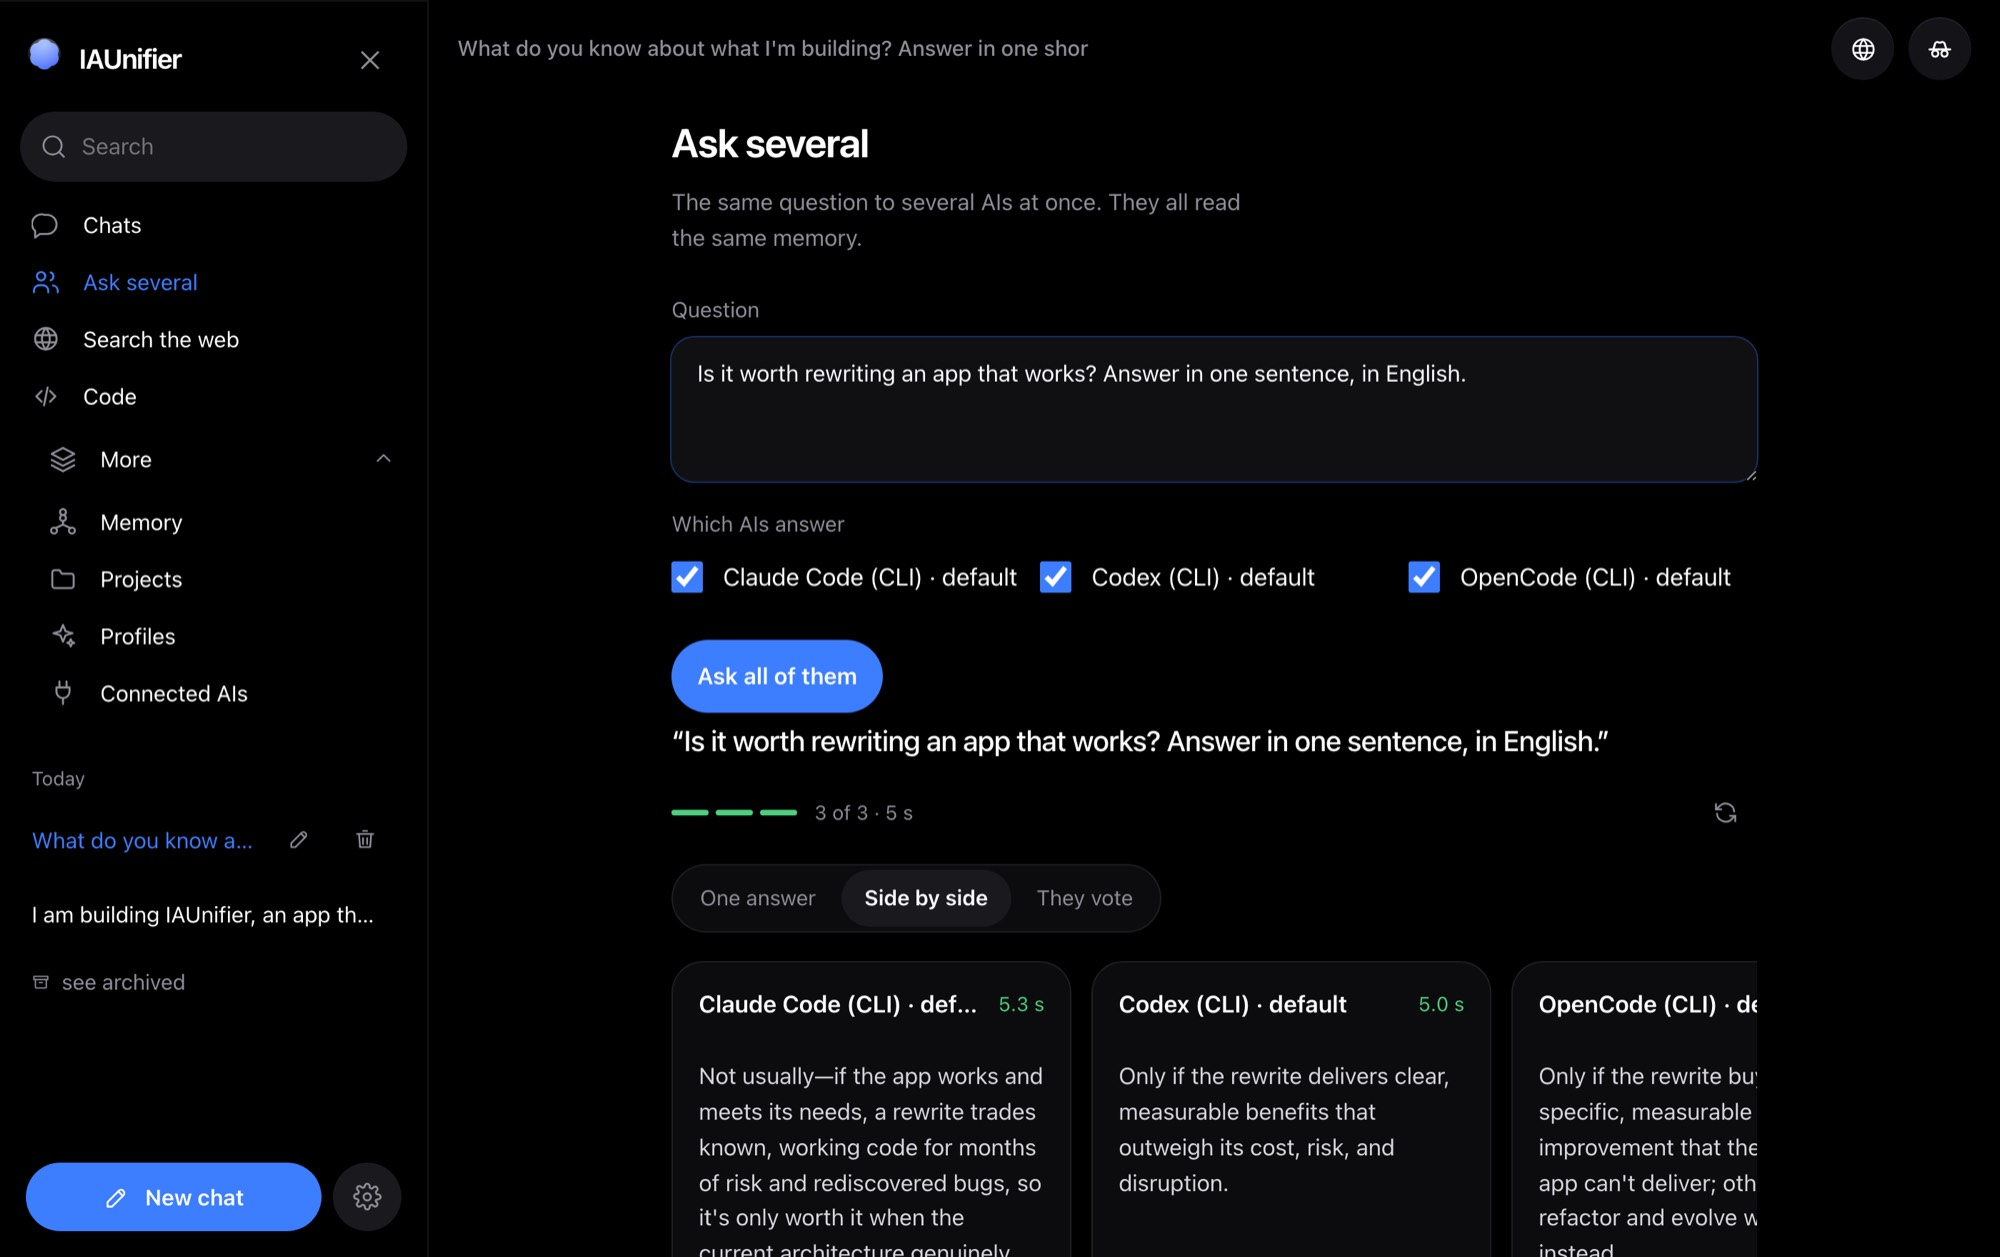
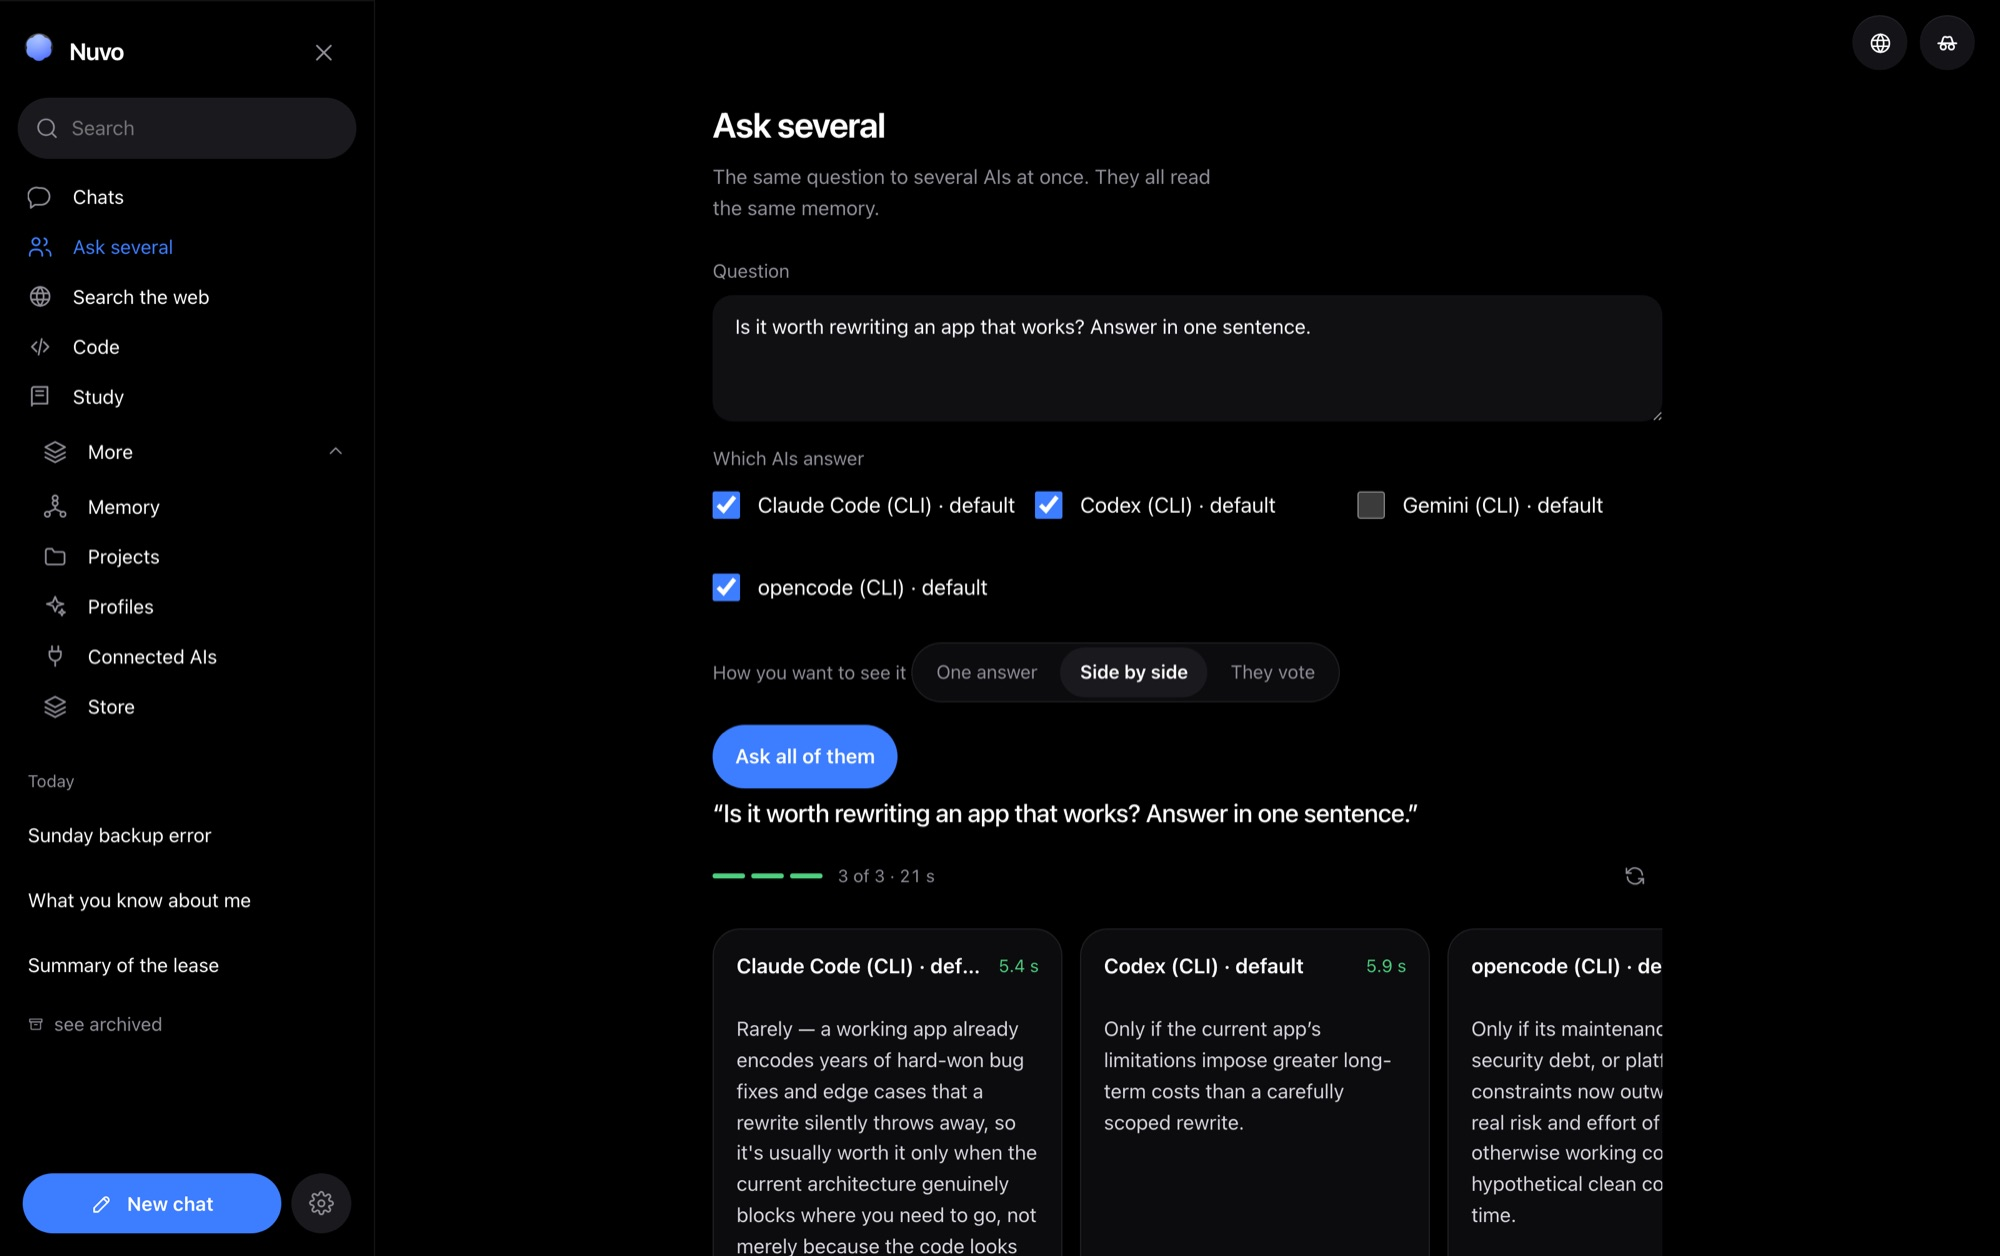
Fix the Gemini CLI invocation, and automate the AI-dependent screenshots
Gemini's `-p` wants the prompt as an argument; the app was passing `-p` alone and
piping the prompt to stdin, so the CLI answered "Not enough arguments following:
p" and printed its own help — which reached the screen as "this AI did not
answer" with the help text inside it. Providers already registered with the old
argument are repaired on startup, and only that exact shape, so anyone who edited
the command by hand is left alone.

The four landing screenshots that show real AI work could not be regenerated
because the script had no way to make a session happen first. It does now: each
screen can name a routine that runs before the shot. `tela-varias` runs the
council in the page itself, since the council keeps no result to reopen, and
picks three AIs that answer — a shop window showing a failure advertises the
defect, not the feature.

`CAPTURAS_IDIOMAS=pt-BR` runs one language while a routine is being tuned,
instead of spending three real AI sessions per attempt.

tela-varias regenerated in all three languages, and now says Nuvo.

diff --git a/build/capturas.py b/build/capturas.py
@@ -45,6 +45,12 @@ LARGURA_FINAL_CELULAR = 1170
 
 IDIOMAS = {'pt-BR': '', 'en': '-en', 'es': '-es'}
 
+# `CAPTURAS_IDIOMAS=pt-BR` roda um idioma só. Serve pra acertar um roteiro sem
+# gastar três sessões de IA de verdade a cada tentativa.
+_so = os.environ.get('CAPTURAS_IDIOMAS')
+if _so:
+    IDIOMAS = {k: v for k, v in IDIOMAS.items() if k in _so.split(',')}
+
 # Cada tela: como chegar nela e o que esperar antes de bater a foto.
 TELAS = {
     'tela-conversa': {'view': None, 'espera': '.vazio h1'},
@@ -53,6 +59,13 @@ TELAS = {
     # — anuncia um erro, não o produto. E as descrições dos modelos ainda saem em
     # português na tela em inglês, que é defeito a corrigir antes de virar foto.
     # 'tela-maquina': {'view': 'providers', 'espera': '#view-providers .panel-inner'},
+
+    # As quatro que precisam de resposta de IA de verdade. `roteiro` é o nome da
+    # função que faz a sessão acontecer antes da foto: elas mostram trabalho que
+    # só existe depois de uma IA responder, e escrever o conteúdo à mão seria
+    # anunciar uma coisa que o app não fez.
+    'tela-varias': {'view': 'council', 'espera': '#c-out .council-col:not(.run)', 'roteiro': 'conselho'},
+    'tela-cli': {'view': None, 'espera': '.msg.assistant .body', 'roteiro': 'memoria'},
 }
 
 # Títulos de conversa que aparecem na barra lateral. São de mentira, e é de
@@ -62,6 +75,73 @@ CONVERSAS = {
     'en': ['What you know about me', 'Summary of the lease', 'Sunday backup error'],
     'es': ['Qué sabes de mí', 'Resumen del contrato de alquiler', 'Error en la copia del domingo'],
 }
+
+
+# A pergunta de cada roteiro, no idioma da vez. Curta de propósito: cada uma
+# custa uma sessão de IA de verdade, e a foto mostra o formato, não o ensaio.
+PERGUNTAS = {
+    'conselho': {
+        'pt-BR': 'Vale a pena reescrever um app que funciona? Responda em uma frase.',
+        'en': 'Is it worth rewriting an app that works? Answer in one sentence.',
+        'es': '¿Vale la pena reescribir una app que funciona? Responde en una frase.',
+    },
+    'memoria': {
+        'pt-BR': ('Meu domínio é nspx.dev e eu escrevo em português do Brasil.',
+                  'Qual é o meu domínio? Responda em uma frase.'),
+        'en': ('My domain is nspx.dev and I write in English.',
+               'What is my domain? Answer in one sentence.'),
+        'es': ('Mi dominio es nspx.dev y escribo en español.',
+               '¿Cuál es mi dominio? Responde en una frase.'),
+    },
+}
+
+
+def cli_disponivel(nome):
+    """A ref 'providerId:modelId' de um CLI ligado, ou None."""
+    for p in api('/state')['providers']:
+        if p['kind'] == 'cli' and p['enabled'] and p.get('models'):
+            if nome is None or nome.lower() in p['name'].lower():
+                return f"{p['id']}:{p['models'][0]['model_id']}"
+    return None
+
+
+def falar(chat_id, texto, prazo=240):
+    """Manda uma mensagem e espera o turno fechar. Sem isto a foto pega o vazio."""
+    pedido = urllib.request.Request(
+        f'http://127.0.0.1:{PORTA}/api/chats/{chat_id}/stream',
+        data=json.dumps({'content': texto}).encode(),
+        headers={'content-type': 'application/json'},
+        method='POST',
+    )
+    with urllib.request.urlopen(pedido, timeout=prazo) as r:
+        for linha in r:  # consumir o SSE até o fim é o que espera o turno
+            pass
+
+
+def roteiro_conselho(idioma):
+    """O conselho não guarda resultado: quem pergunta é a própria página."""
+    return {'pergunta': PERGUNTAS['conselho'][idioma]}
+
+
+def roteiro_memoria(idioma):
+    """O que dá nome ao produto: contar pra uma IA e outra saber."""
+    conta, pergunta = PERGUNTAS['memoria'][idioma]
+    primeira = cli_disponivel('claude') or cli_disponivel(None)
+    segunda = cli_disponivel('codex') or cli_disponivel(None)
+    if not primeira:
+        raise SystemExit('nenhuma IA de terminal ligada')
+
+    contando = api('/chats', {'model': primeira, 'title': CONVERSAS[idioma][0]})
+    falar(contando['id'], conta)
+
+    # Conversa nova, outra IA: é a memória compartilhada que responde, e é isso
+    # que a captura mostra.
+    perguntando = api('/chats', {'model': segunda or primeira, 'title': CONVERSAS[idioma][0]})
+    falar(perguntando['id'], pergunta)
+    return {'chat': perguntando['id']}
+
+
+ROTEIROS = {'conselho': roteiro_conselho, 'memoria': roteiro_memoria}
 
 
 def api(caminho, corpo=None):
@@ -121,6 +201,13 @@ def capturar(quais):
                 for titulo in CONVERSAS[idioma]:
                     api('/chats', {'title': titulo})
 
+                preparados = {}
+                for nome in quais:
+                    roteiro = TELAS[nome].get('roteiro')
+                    if roteiro:
+                        print(f'  {nome}: rodando a sessão de verdade…')
+                        preparados[nome] = ROTEIROS[roteiro](idioma)
+
                 for nome in quais:
                     tela = TELAS[nome]
                     for celular in (False, True):
@@ -138,13 +225,38 @@ def capturar(quais):
                             f"try {{ localStorage.setItem('nuvo.idioma', {json.dumps(idioma)}); }} catch {{}}")
                         pg = ctx.new_page()
                         pg.goto(f'http://127.0.0.1:{PORTA}/', wait_until='load')
+                        preparado = preparados.get(nome)
+                        if tela.get('roteiro') == 'memoria':
+                            # A conversa já existe e já tem resposta: basta abrir
+                            # a primeira da lista, que é ela.
+                            pg.wait_for_selector('#chat-list .chat-item', timeout=20_000)
+                            pg.click('#chat-list .chat-item')
                         if tela['view']:
                             # "IAs ligadas" mora dentro do <details> "Mais", que
                             # nasce fechado: clicar no botão sem abrir antes bate
                             # num elemento que existe e não está visível.
                             pg.evaluate("document.getElementById('nav-mais')?.setAttribute('open', '')")
                             pg.click(f".nav-item[data-view='{tela['view']}']")
-                        pg.wait_for_selector(tela['espera'], timeout=20_000)
+                        if tela.get('roteiro') == 'conselho':
+                            # Navegador limpo não tem escolha guardada, e sem IA
+                            # marcada o conselho não roda. Marca todas e escolhe
+                            # "Lado a lado", que é o modo que a foto mostra.
+                            pg.wait_for_selector('#c-models input[type=checkbox]', timeout=20_000)
+                            # Três, e só as que respondem. A foto é a vitrine do
+                            # produto: uma IA que falha nela anuncia o defeito,
+                            # não o recurso.
+                            pg.evaluate(
+                                "[...document.querySelectorAll('#c-models label.check')]"
+                                ".filter((l) => !/gemini/i.test(l.textContent)).slice(0, 3)"
+                                ".forEach((l) => { const c = l.querySelector('input');"
+                                " if (!c.checked) c.click(); })")
+                            pg.click("#c-modos [data-modo='compare']")
+                            pg.fill('#c-prompt', preparado['pergunta'])
+                            pg.click('#c-go')
+                        # Resposta de IA de verdade demora: o prazo aqui é o da
+                        # sessão, não o de uma tela que só precisa pintar.
+                        pg.wait_for_selector(
+                            tela['espera'], timeout=300_000 if tela.get('roteiro') else 20_000)
                         # A roseta abre em 700 ms e o brilho do rodapé entra
                         # depois: bater antes pega a marca pela metade.
                         pg.wait_for_timeout(2500)
